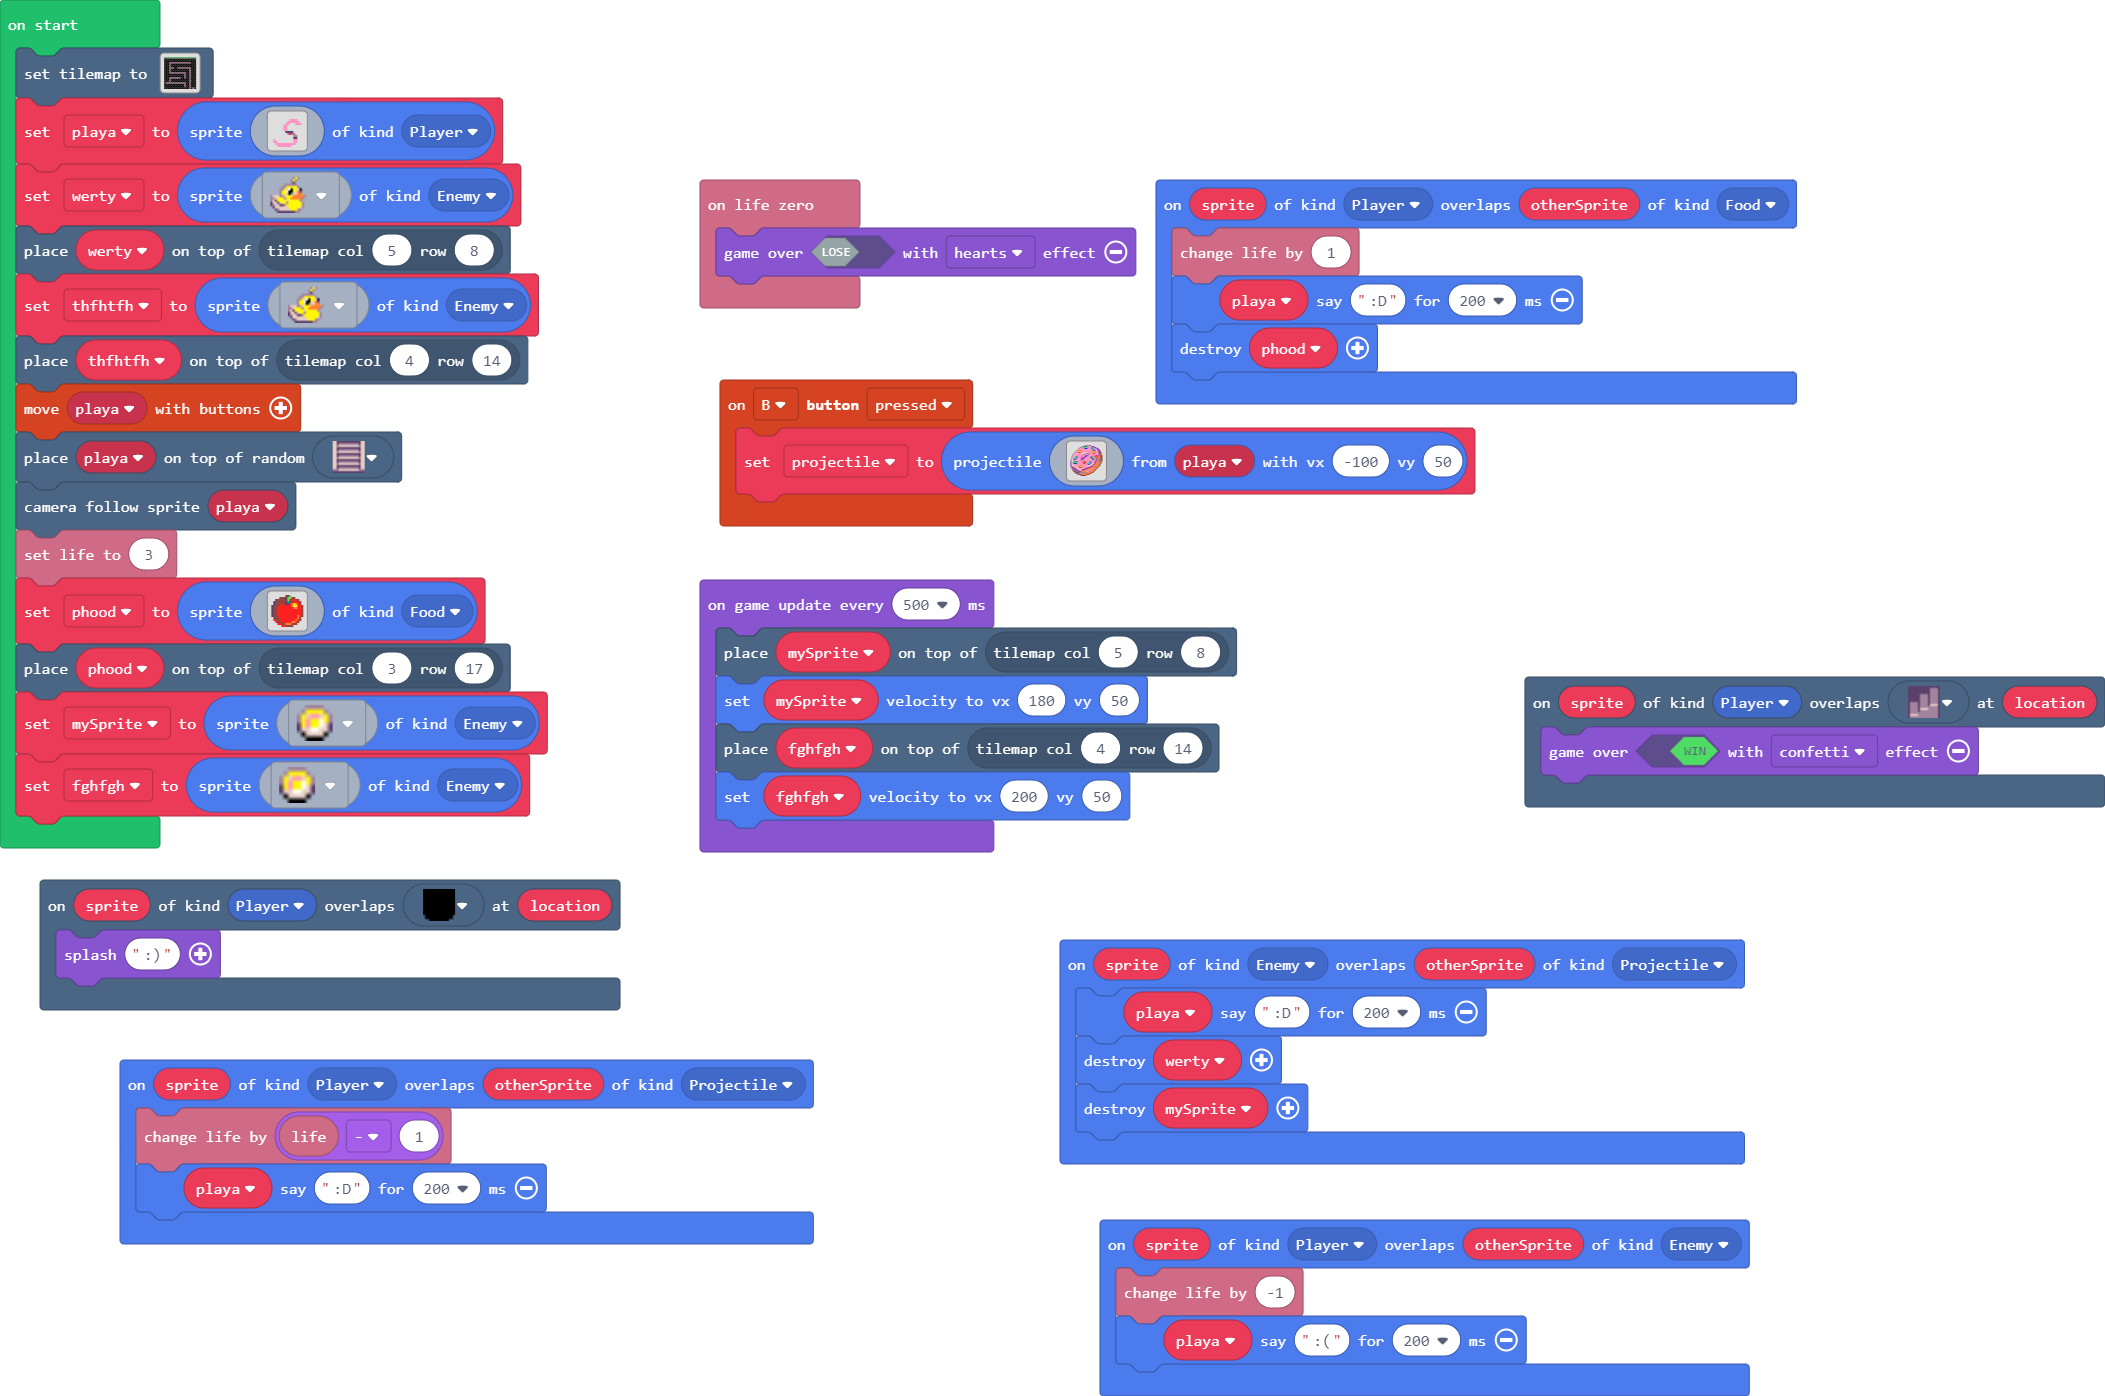
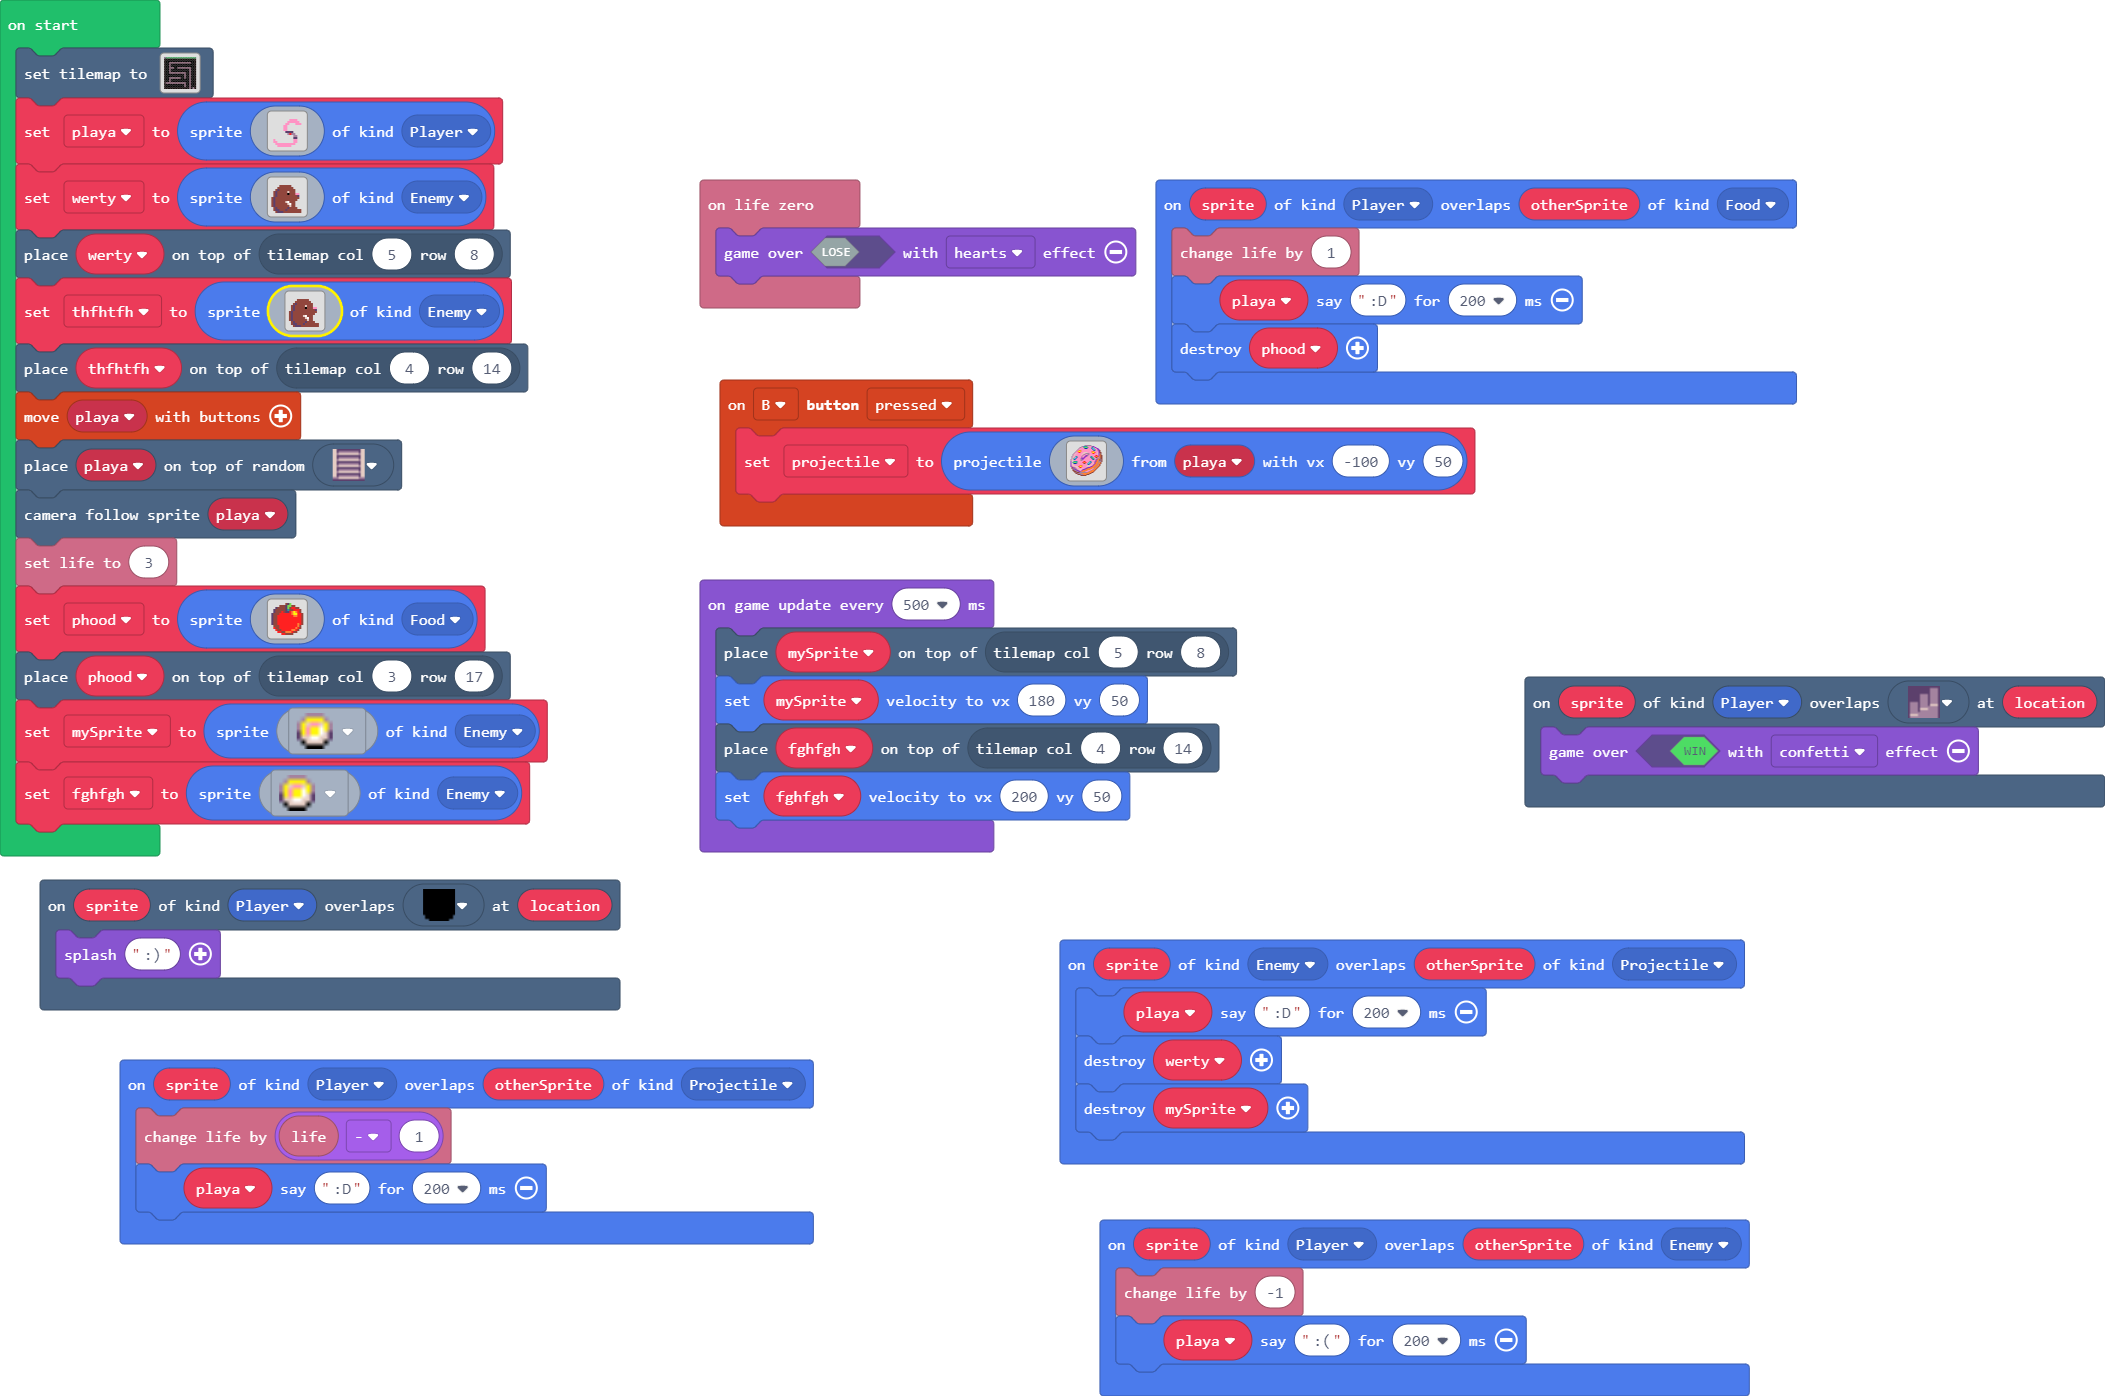
kgkhk

Changed region(s): [[0.0, 0.0924, 0.2779, 0.616]]

diff --git a/main.ts b/main.ts
@@ -131,9 +131,43 @@ playa = sprites.create(img`
 . . 3 3 3 3 3 3 3 3 3 3 . . . . 
 . . . 3 3 3 3 3 3 3 . . . . . . 
 `, SpriteKind.Player)
-werty = sprites.create(sprites.duck.duck3, SpriteKind.Enemy)
+werty = sprites.create(img`
+. . . . . . . . . . . . . . . . 
+. . . . . . . . . . . . . . . . 
+. . . . e e e e e e . . . . . . 
+. . . e e e e e e e e . . . . . 
+. . e c e e e e e e e e . . . . 
+. e c e e e e e d e e e . . . . 
+. e c e e e e e f e e e 3 3 . . 
+. e c e e e e e e e e e e c . . 
+e c e e e e e e e e e e e e . . 
+e c e e e e e e e e e e e . . . 
+e c e e e e e d 1 e e e . . . . 
+e c e e e e e e d 1 e e . . . . 
+e c e e e e e e e d e e . . . . 
+. e c e e e e e c e e e e . . . 
+. e c c e e e c e e e e e e e . 
+. . e c c c e e e e e e e e e . 
+`, SpriteKind.Enemy)
 tiles.placeOnTile(werty, tiles.getTileLocation(5, 8))
-let thfhtfh = sprites.create(sprites.duck.duck3, SpriteKind.Enemy)
+let thfhtfh = sprites.create(img`
+. . . . . . . . . . . . . . . . 
+. . . . . . . . . . . . . . . . 
+. . . . e e e e e e . . . . . . 
+. . . e e e e e e e e . . . . . 
+. . e c e e e e e e e e . . . . 
+. e c e e e e e d e e e . . . . 
+. e c e e e e e f e e e 3 3 . . 
+. e c e e e e e e e e e e c . . 
+e c e e e e e e e e e e e e . . 
+e c e e e e e e e e e e e . . . 
+e c e e e e e d 1 e e e . . . . 
+e c e e e e e e d 1 e e . . . . 
+e c e e e e e e e d e e . . . . 
+. e c e e e e e c e e e e . . . 
+. e c c e e e c e e e e e e e . 
+. . e c c c e e e e e e e e e . 
+`, SpriteKind.Enemy)
 tiles.placeOnTile(thfhtfh, tiles.getTileLocation(4, 14))
 controller.moveSprite(playa)
 tiles.placeOnRandomTile(playa, sprites.dungeon.stairNorth)
